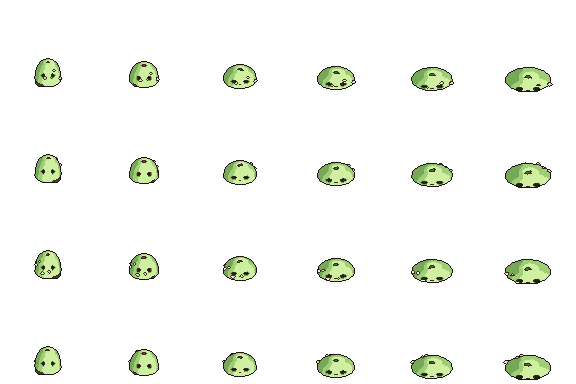
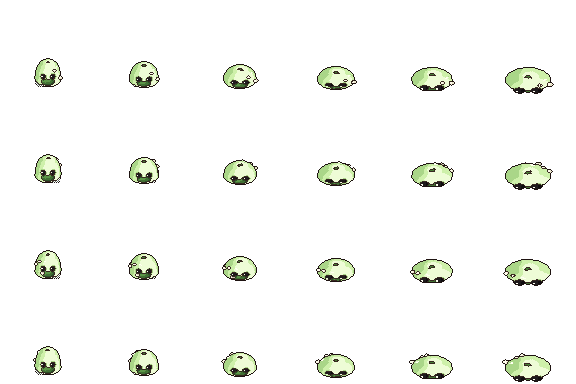
fix: monsters: mossSlime com olhos maiores, translucidez por tons e sombra com meia-tinta
- olhos de ~6 px com pupila escura e brilho branco de 2 px; boca pequena, nas 4 direcoes
- corpo verde-claro, nucleo escuro visivel, pedrinhas e folhas claras, rim e brilho no topo
- sombra de contato: nucleo solido e anel com meia-tinta (xadrez, alfa binario)
- tamanho e animacoes mantidos

diff --git a/art-source/monsters/mossSlime/build.py b/art-source/monsters/mossSlime/build.py
@@ -43,18 +43,19 @@ BICO = 0.03                                # m, bico leve no topo
 
 # ------------------------------------------------------------------ paleta por material (tons claro -> escuro)
 MATS = {
-    "gelatina": dict(r=[(206, 240, 160), (160, 206, 118), (118, 168, 88)], layer="corpo", w=1.0, dith=0.02, bias=0.0, ao=0.4),
-    "nucleo": dict(r=[(92, 146, 74), (64, 110, 54)], layer="corpo", w=1.0, dith=0.02, bias=0.0, ao=0.5),
-    "pedra_clara": dict(r=[(246, 242, 226), (214, 208, 186), (176, 170, 150)], layer="corpo", w=0.9, dith=0.02, bias=0.0, ao=0.5),
-    "folha_clara": dict(r=[(206, 240, 150), (168, 212, 118)], layer="corpo", w=0.9, dith=0.02, bias=0.0, ao=0.5),
+    "gelatina": dict(r=[(238, 252, 214), (206, 240, 170), (170, 214, 136)], layer="corpo", w=1.0, dith=0.02, bias=0.0, ao=0.3),
+    "nucleo": dict(r=[(92, 150, 72), (66, 112, 52), (44, 80, 40)], layer="corpo", w=1.0, dith=0.02, bias=0.0, ao=0.4),
+    "pedra_clara": dict(r=[(255, 252, 236), (236, 230, 206), (206, 200, 178)], layer="corpo", w=0.9, dith=0.02, bias=0.0, ao=0.4),
+    "folha_clara": dict(r=[(230, 248, 178), (196, 230, 140)], layer="corpo", w=0.9, dith=0.02, bias=0.0, ao=0.4),
     "musgo": dict(r=[(70, 122, 52), (46, 92, 38)], layer="corpo", w=1.0, dith=0.02, bias=0.0, ao=0.6),
-    "sombra": dict(r=[(60, 70, 60), (42, 50, 42)], layer="sombra", w=1.0, dith=0.0, bias=0.0, ao=0.0),
-    "olho": dict(r=[(34, 30, 30), (16, 14, 14)], layer="olhos", w=1.0, dith=0.0, bias=0.0, ao=0.2),
+    "sombra_meia": dict(r=[(92, 104, 92)], layer="sombra_meia", w=1.0, dith=0.0, bias=0.0, ao=0.0),
+    "sombra": dict(r=[(56, 66, 56), (40, 48, 40)], layer="sombra", w=1.0, dith=0.0, bias=0.0, ao=0.0),
+    "olho": dict(r=[(30, 26, 28), (14, 12, 14)], layer="olhos", w=1.0, dith=0.0, bias=0.0, ao=0.2),
     "brilho": dict(r=[(255, 255, 240), (230, 246, 210)], layer="brilho", w=1.0, dith=0.0, bias=0.0, ao=0.0),
 }
-CAMADAS = ["sombra", "corpo", "olhos", "brilho"]          # ordem de baixo para cima
+CAMADAS = ["sombra_meia", "sombra", "corpo", "olhos", "brilho"]          # ordem de baixo para cima
 # pe do modelo na linha 80 (pivo (48, 80)): a sombra de contato precisa de folga abaixo da base iso
-ESTILO = PP.Estilo(tile=TILE, mats=MATS, camadas=CAMADAS, sem_linha=("brilho", "sombra"),
+ESTILO = PP.Estilo(tile=TILE, mats=MATS, camadas=CAMADAS, sem_linha=("brilho", "sombra", "sombra_meia"),
                    origem_y=80.0, pivo=(TILE // 2, 80))
 
 
@@ -162,13 +163,14 @@ def add(nome, layer, mat, grp, malha, pose_grp="corpo"):
     PARTES.append((nome, layer, mat, grp, malha, pose_grp))
 
 
-add("sombra", "sombra", "sombra", 8, elipsoide((0.0, 0.0, 0.002), 0.35, 0.23, 0.002, 1), "fixo")
+add("sombra_meia", "sombra_meia", "sombra_meia", 10, elipsoide((0.0, 0.0, 0.001), 0.35, 0.23, 0.001, 1), "fixo")
+add("sombra", "sombra", "sombra", 8, elipsoide((0.0, 0.0, 0.004), 0.22, 0.15, 0.002, 1), "fixo")
 add("casca", "corpo", "gelatina", 1, gelatina())
-add("nucleo", "corpo", "nucleo", 6, elipsoide((0.0, -0.17, 0.085), 0.13, 0.09, 0.09, 1), "rosto")
-PEDRAS = [(math.radians(-70), 0.12, 0.036, "pedra_clara"), (math.radians(-118), 0.24, 0.030, "pedra_clara"),
-          (math.radians(-100), 0.36, 0.026, "pedra_clara")]
+add("nucleo", "corpo", "nucleo", 6, elipsoide((0.0, -0.19, 0.10), 0.16, 0.12, 0.12, 1), "rosto")
+PEDRAS = [(math.radians(-70), 0.13, 0.045, "pedra_clara"), (math.radians(-120), 0.25, 0.038, "pedra_clara"),
+          (math.radians(-98), 0.36, 0.032, "pedra_clara")]
 for i, (th, z, r, mat) in enumerate(PEDRAS):
-    c = sobre_superficie(th, z, r * 0.4)
+    c = sobre_superficie(th, z, r * 0.5)
     add("pedra%d" % i, "corpo", mat, 3, elipsoide(c, r, r, r * 0.8, 0))
 FOLHAS = [(math.radians(-150), 0.20), (math.radians(-40), 0.16)]
 for i, (th, z) in enumerate(FOLHAS):
@@ -177,13 +179,15 @@ MUSGO = [((0.00, 0.00), 0.455, 0.040), ((0.05, 0.03), 0.430, 0.030), ((-0.05, 0.
 for i, ((dx, dy), z, r) in enumerate(MUSGO):
     add("musgo%d" % i, "corpo", "musgo", 7, elipsoide((dx, dy, z), r, r, r * 0.7, 0))
 # rosto (frente = camera): olhos maiores, brilho branco de 1 px e boca simples
-OLHOS = [(math.radians(-112), 0.27), (math.radians(-68), 0.27)]
+OLHOS = [(math.radians(-110), 0.26), (math.radians(-70), 0.26)]
 for i, (th, z) in enumerate(OLHOS):
-    c = sobre_superficie(th, z, 0.024)
-    add("olho%d" % i, "olhos", "olho", 2, elipsoide(c, 0.05, 0.05, 0.05, 1), "rosto")
-    add("brilho%d" % i, "brilho", "brilho", 5, elipsoide((c[0] - 0.016, c[1] - 0.030, c[2] + 0.018), 0.014, 0.014, 0.014, 0), "rosto")
-boca_c = sobre_superficie(math.radians(-90), 0.165, 0.012)
-add("boca", "olhos", "olho", 9, elipsoide(boca_c, 0.045, 0.011, 0.011, 0), "rosto")
+    c = sobre_superficie(th, z, 0.05)
+    add("olho%d" % i, "olhos", "olho", 2, elipsoide(c, 0.07, 0.07, 0.07, 1), "rosto")
+    add("brilho%d" % i, "brilho", "brilho", 5, elipsoide((c[0] - 0.028, c[1] - 0.045, c[2] + 0.030), 0.024, 0.024, 0.024, 0), "rosto")
+boca_c = sobre_superficie(math.radians(-90), 0.175, 0.014)
+add("boca", "olhos", "olho", 9, elipsoide(boca_c, 0.05, 0.013, 0.013, 0), "rosto")
+# brilho umido no topo (segue o corpo)
+add("brilho_topo", "brilho", "brilho", 5, elipsoide(sobre_superficie(math.radians(-62), 0.39, 0.004), 0.055, 0.022, 0.012, 0), "corpo")
 
 for ob in list(bpy.data.objects):
     bpy.data.objects.remove(ob, do_unlink=True)
@@ -289,6 +293,14 @@ def pousar_todos(M_local, yaw):
     pousar(M_local, yaw, "fixo")
 
 
+def meia_tinta(rgba):
+    """Meio-tom com alfa binario: apaga metade dos pixels (xadrez) da camada de sombra exterior."""
+    a = rgba.copy()
+    yy, xx = np.mgrid[0:a.shape[0], 0:a.shape[1]]
+    a[((xx + yy) % 2 == 1), 3] = 0
+    return a
+
+
 # ------------------------------------------------------------------ renders: 4 direcoes x quadros x camadas
 for anim in ANIMS_EXEC:
     nf, fps, loop = ANIMS[anim]
@@ -298,7 +310,8 @@ for anim in ANIMS_EXEC:
         for f in range(nf):
             pousar_todos(pose(anim, f), yaw_para(dname))
             PIPE.set_attrs()
-            partes = [PIPE.estagio(CAMADAS, camada)[0] for camada in CAMADAS]
+            partes = [meia_tinta(PIPE.estagio(CAMADAS, camada)[0]) if camada == "sombra_meia"
+                      else PIPE.estagio(CAMADAS, camada)[0] for camada in CAMADAS]
             cels.append(PP.compose(partes))
         linhas.append(cels)
     PP.save_png(PP.montar_atlas(linhas), os.path.join(OUTDIR, "%s.png" % anim))
@@ -321,8 +334,8 @@ if os.environ.get("ESCREVER_SPEC", "1") == "1":
                       **({"golpe_quadro": GOLPE_QUADRO[a]} if a in GOLPE_QUADRO else {})} for a in ANIMS},
         "paleta": sorted([list(c) for c in ESTILO.paleta]),
         "paleta_max": PP.PALETA_MAX,
-        "nota": "translucidez simulada por tons (nucleo escuro, borda clara); alfa binario. Pedrinhas e folhas sao "
-                "inclusoes claras na casca. Sombra de contato e um disco escuro fixo (alfa binario, sem meio-tom).",
+        "nota": "translucidez simulada por tons (corpo claro, nucleo escuro visivel, pedrinhas e folhas claras, brilho no topo); "
+                "alfa binario. Sombra: nucleo solido e anel com meia-tinta (xadrez de pixels).",
     }
     with open(os.path.join(HERE, "spec.json"), "w", encoding="utf-8") as fh:
         json.dump(spec, fh, indent=1, ensure_ascii=False)
